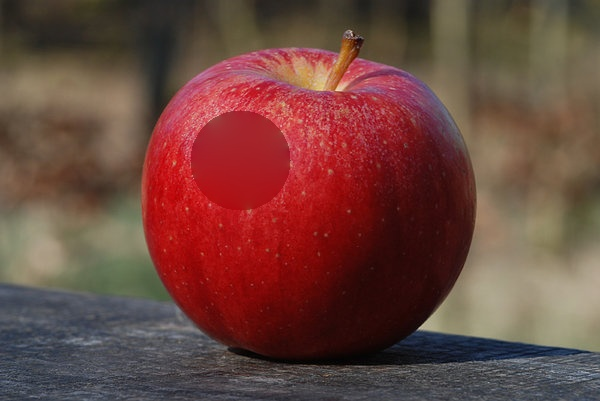
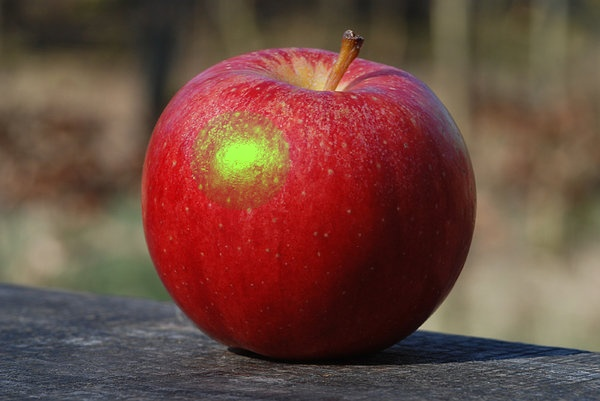
Finish color change

Changed region(s): [[0.3, 0.2693, 0.51, 0.5387]]

diff --git a/poisson_tasks.py b/poisson_tasks.py
@@ -126,10 +126,10 @@ class SeamlessCloningSolver(object):
         if (not m_grad):
             self.v_R_h = self.grad_source_R_h
             self.v_R_w = self.grad_source_R_w
-            self.v_G_h = self.grad_source_R_h
-            self.v_G_w = self.grad_source_R_w
-            self.v_B_h = self.grad_source_R_h
-            self.v_B_w = self.grad_source_R_w
+            self.v_G_h = self.grad_source_G_h
+            self.v_G_w = self.grad_source_G_w
+            self.v_B_h = self.grad_source_B_h
+            self.v_B_w = self.grad_source_B_w
         else:
             self.v_R_h = self.mix_grad(self.grad_source_R_h, self.grad_target_R_h)
             self.v_R_w = self.mix_grad(self.grad_source_R_w, self.grad_target_R_w)
@@ -464,12 +464,12 @@ class ColorChangeSolver(object):
         self.grad_target_B_w = self.grad(self.target_B, self.height, self.width, "w")
 
         '''Generate the guiding vector field'''
-        self.v_R_h = self.grad_source_R_h
-        self.v_R_w = self.grad_source_R_w
-        self.v_G_h = self.grad_source_R_h
-        self.v_G_w = self.grad_source_R_w
-        self.v_B_h = self.grad_source_R_h
-        self.v_B_w = self.grad_source_R_w
+        self.v_R_h = self.grad_source_R_h * R_mul
+        self.v_R_w = self.grad_source_R_w * R_mul
+        self.v_G_h = self.grad_source_G_h * G_mul
+        self.v_G_w = self.grad_source_G_w * G_mul
+        self.v_B_h = self.grad_source_B_h * B_mul
+        self.v_B_w = self.grad_source_B_w * B_mul
 
         # '''TT: Generate the guiding vector field'''
         # self.v_R_h_f = self.grad_target_R_h
@@ -489,8 +489,7 @@ class ColorChangeSolver(object):
         for i in range(self.height):
             for j in range(self.width):
                 if (self.mask[i,j] >= 1):
-                    # source_ret[i,j] = self.target[i,j] * RGB_mul
-                    source_ret[i,j] = np.array([0, 255, 0], dtype=float) * RGB_mul
+                    source_ret[i,j] = self.target[i,j] * RGB_mul
         # cv2.imwrite("source_cc.jpg", source_ret.astype(np.uint8))
         return source_ret
 
